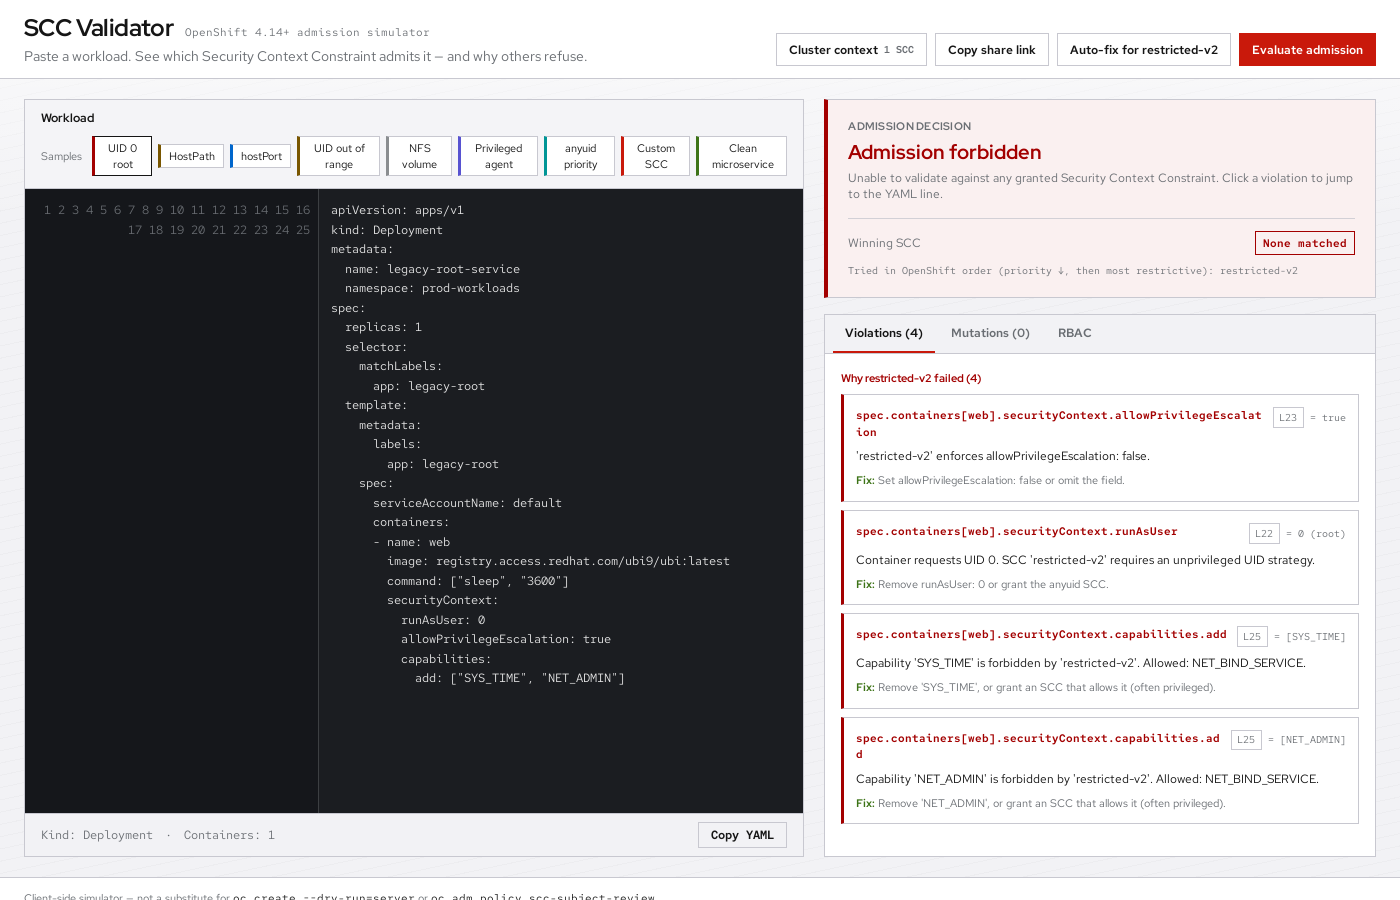
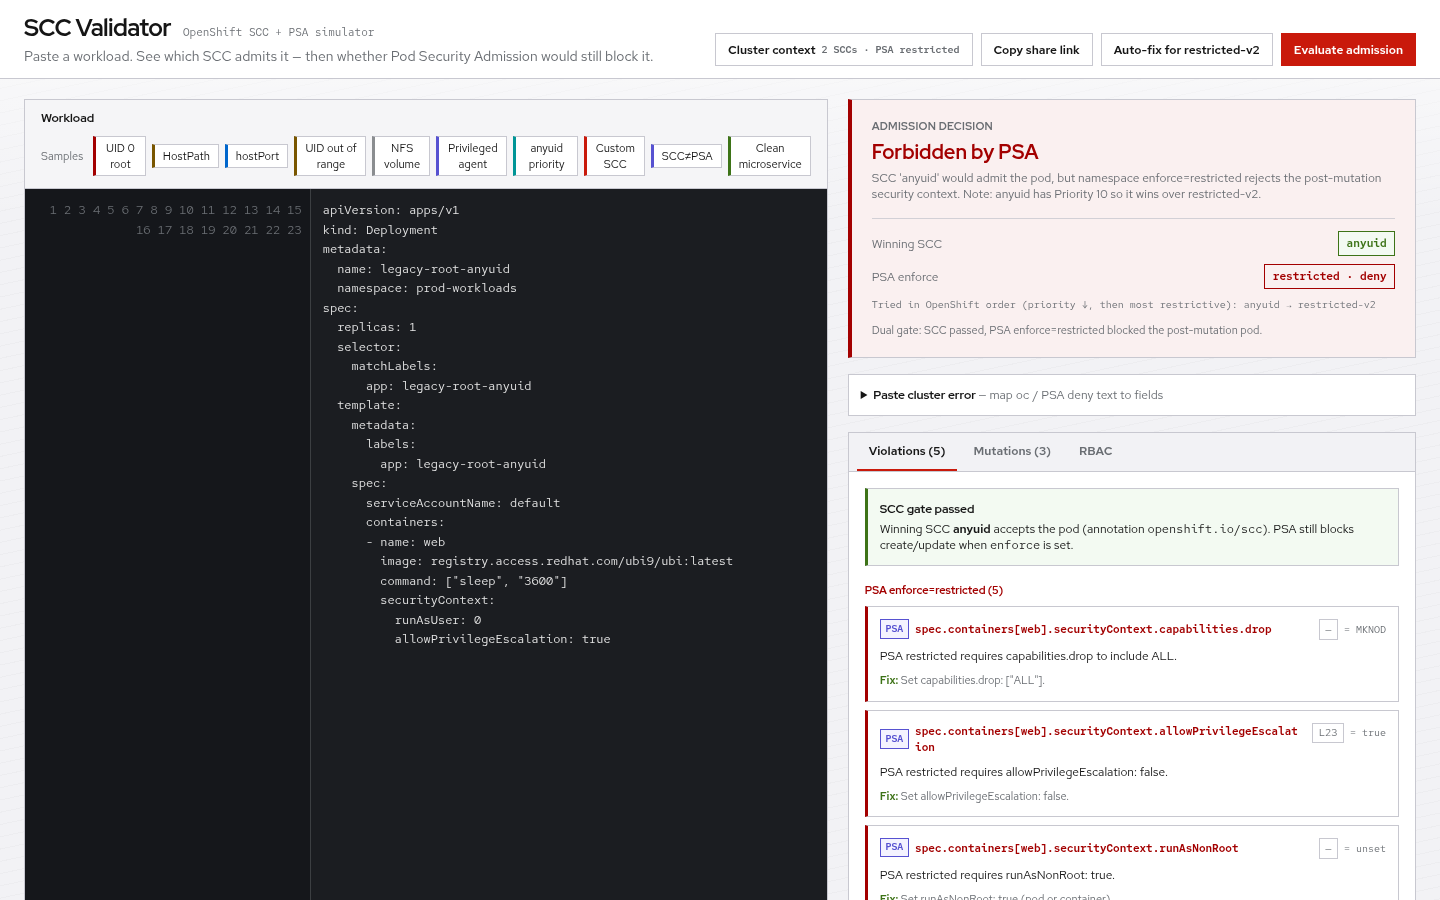
Surface PSA in the UI and map pasted oc Forbidden errors.
Make enforce discoverable (badge always shows PSA, hint when unset), add paste-cluster-error parsing, document the sample gold set, and refresh the README screenshot/GIF for the SCC≠PSA dual-gate case.

diff --git a/index.html b/index.html
@@ -451,6 +451,27 @@
           </div>
         </div>
         <div id="evalOrderRow" class="mt-2 text-[10px] text-mute font-mono leading-relaxed"></div>
+        <div id="psaHint" class="mt-2 text-[11px] text-mute leading-relaxed hidden"></div>
+      </div>
+
+      <div class="surface p-3">
+        <details id="ocErrorDetails">
+          <summary class="cursor-pointer text-xs font-heading font-bold text-ink select-none">
+            Paste cluster error
+            <span class="font-normal text-mute font-sans"> — map <span class="font-mono">oc</span> / PSA deny text to fields</span>
+          </summary>
+          <p class="text-[11px] text-mute mt-2 leading-relaxed">
+            Paste the Forbidden message from
+            <span class="font-mono text-ink">oc create --dry-run=server</span>
+            or the API. Detects SCC vs PSA, sets enforce when needed, jumps to matching YAML lines.
+          </p>
+          <textarea id="ocErrorEditor" spellcheck="false" rows="3" class="field resize-y mt-2" placeholder='Error from server (Forbidden): … unable to validate against any security context constraint…&#10;or: violates PodSecurity "restricted:latest": allowPrivilegeEscalation != false (container "web" …)'></textarea>
+          <div class="mt-2 flex flex-wrap items-center gap-2">
+            <button id="ocErrorParseBtn" type="button" class="btn btn-primary text-xs">Parse error</button>
+            <button id="ocErrorClearBtn" type="button" class="btn btn-quiet text-xs">Clear</button>
+            <span id="ocErrorStatus" class="text-[11px] text-mute"></span>
+          </div>
+        </details>
       </div>
 
       <div class="flex-1 surface flex flex-col overflow-hidden min-h-[400px]">
@@ -1841,9 +1862,36 @@ volumes:
 
     function updateSccBadge() {
       const n = Object.values(state.clusterSccs).filter(Boolean).length;
-      const psa = state.psa?.enforce || readPsaFromUi().enforce;
-      const psaBit = psa ? ` · PSA ${psa}` : '';
+      const psa = (state.psa?.enforce !== undefined ? state.psa.enforce : null) ?? readPsaFromUi().enforce;
+      const psaBit = psa ? ` · PSA ${psa}` : ' · PSA none';
       el.activeSccCountBadge.textContent = `${n} SCC${n === 1 ? '' : 's'}${psaBit}`;
+    }
+
+    function updatePsaHint(psaResult) {
+      if (!el.psaHint) return;
+      const enforce = psaResult?.enforce?.level || state.psa?.enforce || '';
+      if (!enforce) {
+        el.psaHint.classList.remove('hidden');
+        el.psaHint.innerHTML = `PSA <span class="font-mono text-ink">enforce</span> is unset — only the SCC gate applies.
+          Set it under <button type="button" id="psaHintOpenCtx" class="underline text-lake">Cluster context → Pod Security Admission</button>
+          (or try sample <span class="font-mono text-ink">SCC≠PSA</span>).`;
+        const btn = document.getElementById('psaHintOpenCtx');
+        if (btn) {
+          btn.addEventListener('click', () => {
+            el.clusterDrawer?.classList.remove('hidden');
+            el.ctxPsaEnforce?.focus();
+            el.ctxPsaEnforce?.scrollIntoView({ behavior: 'smooth', block: 'center' });
+          }, { once: true });
+        }
+        return;
+      }
+      if (psaResult?.blocking) {
+        el.psaHint.classList.remove('hidden');
+        el.psaHint.textContent = `Dual gate: SCC passed, PSA enforce=${enforce} blocked the post-mutation pod.`;
+        return;
+      }
+      el.psaHint.classList.add('hidden');
+      el.psaHint.textContent = '';
     }
 
     function updateGutter() {
@@ -2330,6 +2378,7 @@ volumes:
     function renderDualAdmission({ sccPassed, sccName, sccReports, mutations, orderText, evaluationOrder, psaResult }) {
       setPsaPill(psaResult);
       el.evalOrderRow.textContent = orderText || '';
+      updatePsaHint(psaResult);
 
       if (!sccPassed) {
         el.verdictCard.className = 'verdict verdict--deny';
@@ -2448,6 +2497,141 @@ volumes:
       el.psaPill.style.borderColor = '';
       el.psaPill.style.color = '';
       el.psaPill.textContent = label || '—';
+      if (el.psaHint) {
+        el.psaHint.classList.add('hidden');
+        el.psaHint.textContent = '';
+      }
+    }
+
+    const ERROR_FIELD_HINTS = [
+      { re: /allowPrivilegeEscalation/i, leaf: 'allowPrivilegeEscalation' },
+      { re: /runAsNonRoot/i, leaf: 'runAsNonRoot' },
+      { re: /runAsUser/i, leaf: 'runAsUser' },
+      { re: /seccompProfile|seccomp/i, leaf: 'seccompProfile' },
+      { re: /capabilities\.drop|drop=\["ALL"\]|unrestricted capabilities/i, leaf: 'drop' },
+      { re: /capabilities\.add|capability/i, leaf: 'add' },
+      { re: /hostPath/i, leaf: 'hostPath' },
+      { re: /hostNetwork/i, leaf: 'hostNetwork' },
+      { re: /hostPID/i, leaf: 'hostPID' },
+      { re: /hostIPC/i, leaf: 'hostIPC' },
+      { re: /hostPort/i, leaf: 'hostPort' },
+      { re: /privileged/i, leaf: 'privileged' },
+      { re: /fsGroup/i, leaf: 'fsGroup' },
+      { re: /seLinux/i, leaf: 'seLinuxOptions' }
+    ];
+
+    function parseClusterError(raw) {
+      const text = String(raw || '').trim();
+      if (!text) {
+        return { ok: false, message: 'Paste an oc / API Forbidden error first.' };
+      }
+
+      const notes = [];
+      let gate = null;
+      let psaLevel = '';
+
+      const psaMatch = text.match(/PodSecurity\s+"?(privileged|baseline|restricted)(?::[^"]*)?"?/i)
+        || text.match(/violates\s+PodSecurity\s+"?(privileged|baseline|restricted)/i)
+        || text.match(/pod\s+security\s+(privileged|baseline|restricted)/i);
+      if (psaMatch || /violates\s+PodSecurity/i.test(text) || /podsecurity\.kubernetes\.io/i.test(text)) {
+        gate = 'PSA';
+        psaLevel = normalizePsaLevel(psaMatch?.[1] || 'restricted') || 'restricted';
+        writePsaToUi({
+          enforce: psaLevel,
+          warn: state.psa.warn || psaLevel,
+          audit: state.psa.audit || psaLevel
+        });
+        notes.push(`PSA enforce set to ${psaLevel}`);
+      }
+
+      if (/unable to validate against any security context constraint/i.test(text)
+        || /security context constraint/i.test(text)
+        || (/\bsccs?\b/i.test(text) && /forbidden/i.test(text))) {
+        gate = gate || 'SCC';
+        notes.push('SCC admission deny detected');
+      }
+
+      if (!gate) {
+        // Heuristic: Forbidden + securityContext field language
+        if (/forbidden/i.test(text) && /securityContext|hostNetwork|hostPath|privileged/i.test(text)) {
+          gate = 'SCC';
+          notes.push('Treated as admission deny (SCC assumed)');
+        } else {
+          return {
+            ok: false,
+            message: 'Unrecognized. Need text like “unable to validate against any security context constraint” or “violates PodSecurity …”.'
+          };
+        }
+      }
+
+      // Tick SCCs mentioned as providers if listed (informational; do not clear others)
+      const providerRe = /provider\s+"([^"]+)"/gi;
+      let pm;
+      const providers = [];
+      while ((pm = providerRe.exec(text)) !== null) {
+        providers.push(pm[1]);
+      }
+      if (providers.length) {
+        notes.push(`Providers in error: ${providers.slice(0, 6).join(', ')}${providers.length > 6 ? '…' : ''}`);
+      }
+
+      const containers = [...text.matchAll(/container\s+"([^"]+)"/gi)].map((m) => m[1]);
+      const fieldPaths = [...text.matchAll(/\b(spec\.[a-zA-Z0-9_[\]\."'-]+)/g)].map((m) => m[1]);
+
+      evaluateSccAdmission();
+      switchTab('violations');
+
+      let jumped = null;
+      const yaml = el.yamlEditor.value;
+
+      for (const path of fieldPaths) {
+        const line = locateYamlLine(yaml, path.replace(/"/g, ''));
+        if (line) {
+          jumpToYamlLine(line);
+          jumped = { path, line };
+          break;
+        }
+      }
+
+      if (!jumped) {
+        for (const hint of ERROR_FIELD_HINTS) {
+          if (!hint.re.test(text)) continue;
+          let searchFrom = 0;
+          if (containers[0]) {
+            const escName = containers[0].replace(/[.*+?^${}()|[\]\\]/g, '\\$&');
+            const nameRe = new RegExp(`^\\s*-?\\s*name:\\s*["']?${escName}["']?\\s*$`);
+            const idx = yaml.split('\n').findIndex((l) => nameRe.test(l));
+            if (idx >= 0) searchFrom = idx;
+          }
+          const lines = yaml.split('\n');
+          const keyRe = new RegExp(`^\\s*${hint.leaf}\\s*:`);
+          for (let i = searchFrom; i < lines.length; i++) {
+            if (keyRe.test(lines[i])) {
+              jumpToYamlLine(i + 1);
+              jumped = { path: hint.leaf, line: i + 1 };
+              break;
+            }
+          }
+          if (jumped) break;
+        }
+      }
+
+      if (jumped) {
+        notes.push(`Jumped to L${jumped.line} (${jumped.path})`);
+      } else {
+        notes.push('No matching YAML line found — re-evaluate after pasting the same workload');
+      }
+
+      if (el.ocErrorDetails) el.ocErrorDetails.open = true;
+      updateSccBadge();
+
+      return {
+        ok: true,
+        message: `${gate} error parsed. ${notes.join(' · ')}`,
+        gate,
+        psaLevel,
+        jumped
+      };
     }
 
     function showParseError(msg) {
@@ -2859,7 +3043,8 @@ roleRef:
         'yamlRoleBindingSnippet', 'validateBtn', 'autoFixBtn', 'copyYamlBtn', 'evalOrderRow',
         'ocSccSubjectReview', 'ocSccWhoCan', 'ocContextExport', 'ctxImportEditor',
         'ctxImportStatus', 'ctxImportFiles', 'ctxImportPasteBtn', 'shareLinkBtn',
-        'sccChipRow', 'customSccChips'
+        'sccChipRow', 'customSccChips', 'psaHint', 'ocErrorEditor', 'ocErrorParseBtn',
+        'ocErrorClearBtn', 'ocErrorStatus', 'ocErrorDetails'
       ].forEach((id) => { el[id] = document.getElementById(id); });
     }
 
@@ -2870,10 +3055,19 @@ roleRef:
       updateRbacSnippets();
 
       const restored = await restoreShareFromLocation();
+      const urlParams = new URLSearchParams(window.location.search);
+      const sampleParam = urlParams.get('sample');
       if (!restored) {
-        el.yamlEditor.value = PRESETS.root;
-        updateGutter();
-        evaluateSccAdmission();
+        if (sampleParam && PRESETS[sampleParam]) {
+          loadPreset(sampleParam);
+        } else {
+          el.yamlEditor.value = PRESETS.root;
+          updateGutter();
+          evaluateSccAdmission();
+        }
+      }
+      if (urlParams.get('compact') === '1') {
+        el.clusterDrawer?.classList.add('hidden');
       }
 
       document.querySelectorAll('.preset-btn').forEach((btn) => {
@@ -2967,6 +3161,27 @@ roleRef:
 
       if (el.shareLinkBtn) {
         el.shareLinkBtn.addEventListener('click', () => { copyShareLink(); });
+      }
+
+      if (el.ocErrorParseBtn) {
+        el.ocErrorParseBtn.addEventListener('click', () => {
+          const result = parseClusterError(el.ocErrorEditor?.value || '');
+          if (el.ocErrorStatus) {
+            el.ocErrorStatus.textContent = result.message;
+            el.ocErrorStatus.className = result.ok
+              ? 'text-[11px] status-ok'
+              : 'text-[11px] status-warn';
+          }
+        });
+      }
+      if (el.ocErrorClearBtn) {
+        el.ocErrorClearBtn.addEventListener('click', () => {
+          if (el.ocErrorEditor) el.ocErrorEditor.value = '';
+          if (el.ocErrorStatus) {
+            el.ocErrorStatus.textContent = '';
+            el.ocErrorStatus.className = 'text-[11px] text-mute';
+          }
+        });
       }
 
       el.violationsContainer.addEventListener('click', (e) => {

diff --git a/README.md b/README.md
@@ -4,7 +4,11 @@
 
 Client-side OpenShift **Security Context Constraint (SCC)** + **Pod Security Admission (PSA)** simulator.
 
-![SCC Validator showing an admission forbidden result for a failing workload](docs/scc-validator.png)
+![SCC Validator showing SCC anyuid admitting a root pod while PSA enforce=restricted still forbids](docs/scc-validator.png)
+
+Short demo loop (SCC deny → SCC≠PSA dual gate):
+
+![SCC Validator toggling between a classic SCC deny and the SCC≠PSA sample](docs/scc-validator.gif)
 
 Live app: https://vinashar-rh.github.io/scc-validator/
 
@@ -58,8 +62,9 @@ Workload YAML and cluster context stay in the browser. Evaluation does not uploa
    - PSA labels (`enforce` / `warn` / `audit`) — default unset (SCC-only)
    - which SCCs that ServiceAccount may use (default: `restricted-v2` only)
 4. Read **Admission decision** (SCC + PSA pills). On deny, open **Violations** (tagged SCC vs PSA) and click a finding to jump to the YAML line.
-5. Optional: **Auto-fix for restricted-v2**, or use the **RBAC** tab if the workload truly needs a higher SCC.
-6. Optional: **Copy share link** to send someone the same YAML + context.
+5. Optional: open **Paste cluster error** and drop in an `oc create --dry-run=server` Forbidden message — the app detects SCC vs PSA, sets enforce when needed, and jumps to a matching YAML field.
+6. Optional: **Auto-fix for restricted-v2**, or use the **RBAC** tab if the workload truly needs a higher SCC.
+7. Optional: **Copy share link** to send someone the same YAML + context. Deep-link a sample with `?sample=psagate` (or any sample key).
 
 ---
 
@@ -125,6 +130,13 @@ This is still an approximation of admission, not `oc create --dry-run=server`.
 - Findings are tagged **SCC** or **PSA**. Click a row (or its `L12` badge) to jump to the YAML line.
 - **RBAC** suggests a least-privilege stock SCC grant (`oc adm policy add-scc-to-user` + RoleBinding). Prefer fixing the pod for `restricted-v2` when possible.
 
+### Paste cluster error
+
+Under the admission card, **Paste cluster error** accepts Forbidden text from `oc create --dry-run=server` / the API:
+
+- `unable to validate against any security context constraint` → treated as an SCC deny; jumps to a matching field when present in the YAML
+- `violates PodSecurity "restricted:…"` (or baseline) → sets PSA **enforce** to that profile, re-evaluates, jumps to the first matching field (e.g. `allowPrivilegeEscalation`, `runAsUser`)
+
 ### Auto-fix
 
 **Auto-fix for restricted-v2** rewrites the pasted YAML toward a restricted-friendly shape (drops host namespaces / hostPath-style volumes where needed, strips root UID / privileged, sets drop `ALL` + `NET_BIND_SERVICE`). Review the diff before using it in Git.
@@ -145,6 +157,24 @@ This is still an approximation of admission, not `oc create --dry-run=server`.
 | Custom SCC | Pod with `NET_ADMIN` + imported `netadmin-nonroot` SCC |
 | SCC≠PSA | `anyuid` admits root pod; PSA `enforce=restricted` still forbids |
 | Clean microservice | Passes `restricted-v2` (and PSA restricted if you enable it) |
+
+### Expected outcomes (gold set)
+
+Defaults unless noted: namespace UID range `1000670000/10000`, only `restricted-v2` granted, PSA enforce unset.
+
+| Sample | Winning SCC | PSA enforce | Overall |
+|--------|-------------|-------------|---------|
+| UID 0 root | none | none | Forbidden by SCC |
+| HostPath | none | none | Forbidden by SCC |
+| hostPort | none | none | Forbidden by SCC |
+| UID out of range | none | none | Forbidden by SCC |
+| NFS volume | none | none | Forbidden by SCC |
+| Privileged agent | none | none | Forbidden by SCC |
+| anyuid priority | `anyuid` | none | Allowed |
+| Custom SCC | `netadmin-nonroot` | none | Allowed |
+| SCC≠PSA | `anyuid` | `restricted` | Forbidden by PSA |
+| Clean microservice | `restricted-v2` | none | Allowed |
+| Clean microservice + enforce=restricted | `restricted-v2` | `restricted` | Allowed |
 
 ---
 
